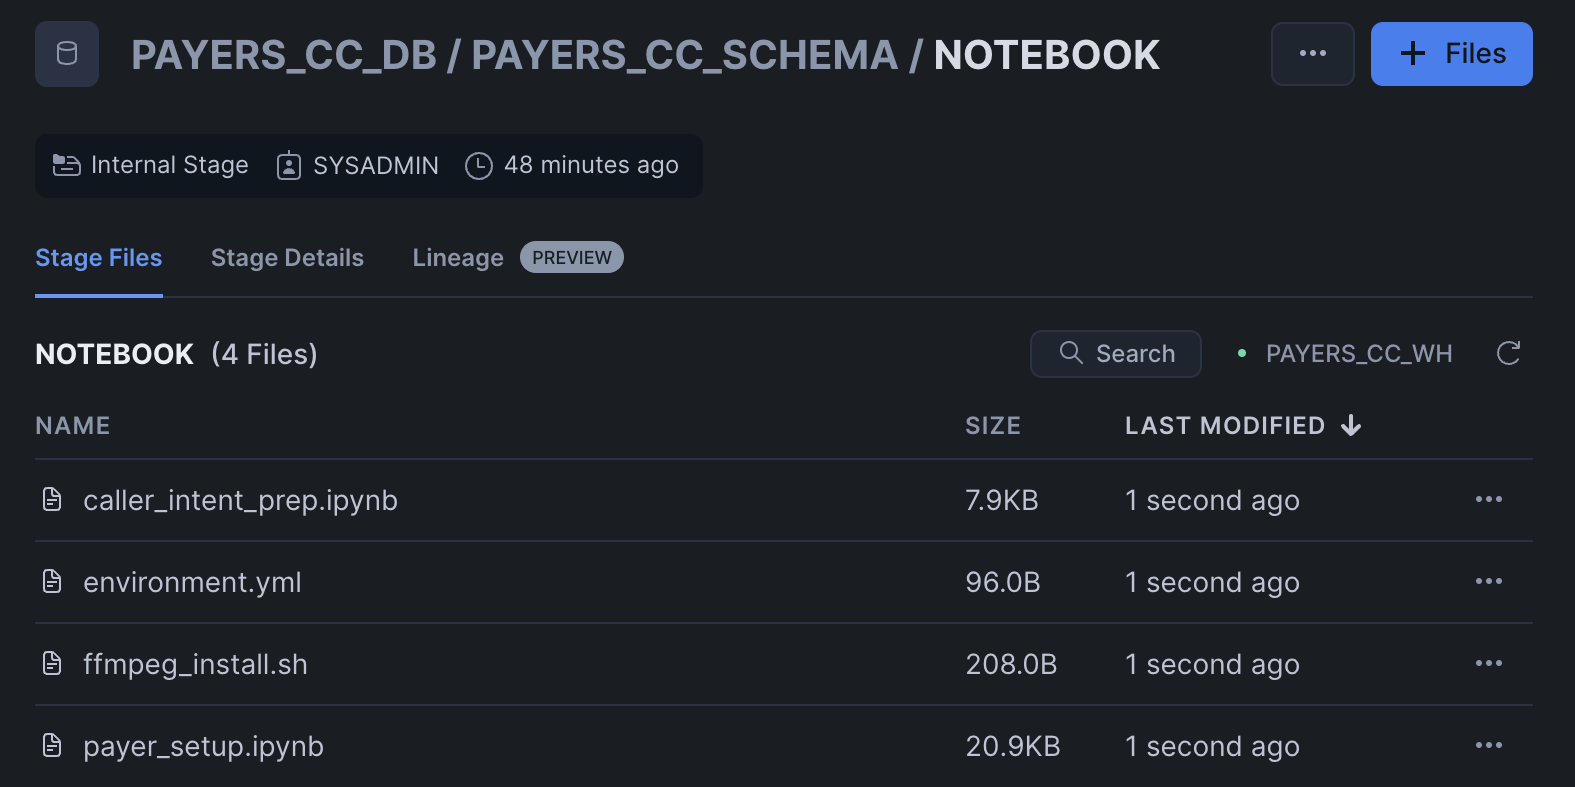
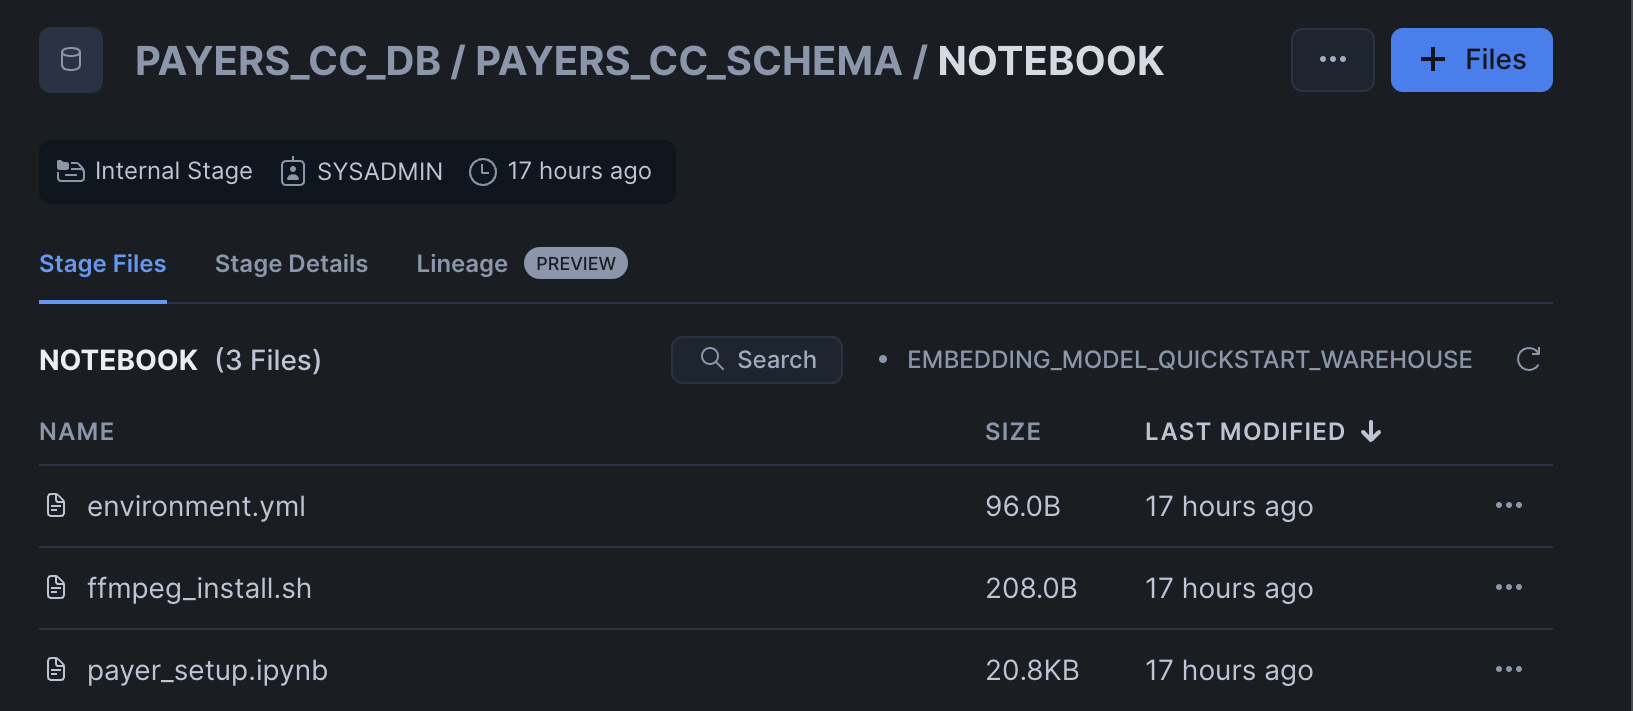
clean up

diff --git a/site/sfguides/src/ai_agent_health_payers_cc/ai_agent_health_payers_cc.md b/site/sfguides/src/ai_agent_health_payers_cc/ai_agent_health_payers_cc.md
@@ -15,7 +15,7 @@ tags: Getting Started, Snowpark Python, Streamlit, Data-Science-&-Ai
 
 Contact Center is a critical business function for a Payer/Health Plan. There is heightened focus particularly with the growing market demand for customer centric experiences in Healthcare. Improving the operational efficiency of contact centers and reducing agent burnout are also key priorities for all enterprises.
 
-#### Scenario
+#### Business Scenario
 
 You are the Business Leader for a Payer/Health Plan's Contact Center operations. There are 4 primary caller personas reaching your Contact Center - Member, Provider, Employer and Broker.
 
@@ -49,10 +49,9 @@ Based on a detailed study, you have identified key challenges faced by Contact C
 
 ### What You Will Build
 
-- A Snowflake Notebook on Container Runtime to process unstructured data (audio files and PDFs)
+- A Snowflake Notebook on Container Runtime to process unstructured data (audio files and PDFs) and build a Caller Intent ML Classification Model and execute predictions:
      - Audio-to-text transcription using `whisper`
      - PDF processing and text chunking using Snowpark
-- A Snowflake Notebook on Warehouse to build a Caller Intent ML Classification Model and execute predictions
 - A chatbot application using Streamlit
 
 **Architecture Diagram:**
@@ -79,7 +78,7 @@ There are 3 types of data we're dealing with in this solution:
 #### Setup
 To get started using Snowflake Notebooks, first login to Snowsight. In the top-left corner, click "+ Create" to create a new Worksheet, and choose "SQL Worksheet".
 
-Paste and run the following [setup.sql](https://github.com/Snowflake-Labs/sfguide-ai-agent-hcls-payers-cc-cortex-notebooks-mlclassification/blob/main/scripts/setup.sql) in the SQL worksheet to create Snowflake objects (warehouse, database, schema).
+Paste and run the following [setup.sql](https://github.com/Snowflake-Labs/sfguide-ai-agent-hcls-payers-cc-cortex-notebooks-mlclassification/blob/main/scripts/setup.sql) in the SQL worksheet to create Snowflake objects.
 
 ```sql
 USE ROLE SYSADMIN;
@@ -155,8 +154,10 @@ Click '+ Files' in the top right of the stage. Upload all files that you downloa
 <img src="assets/upload_caller_intent.png"/>
 <img src="assets/upload_data_product.png"/>
 <img src="assets/upload_faqs.png"/>
+
 - **Notebook Files:** Upload notebook files (including environment.yml) to the `NOTEBOOK` stage from [notebook](https://github.com/Snowflake-Labs/sfguide-ai-agent-hcls-payers-cc-cortex-notebooks-mlclassification/tree/main/notebooks).
 <img src="assets/upload_notebook_files.png"/>
+
 - **Streamlit Files:** Upload all Streamlit and chatbot-related files to the `CHATBOT_APP` stage from [streamlit](). Remember to upload [the streamlit-specific environment.yml](https://github.com/Snowflake-Labs/sfguide-building-ai-assistant-using-snowflake-co[…]snowflake-notebooks/blob/main/scripts/streamlit/environment.yml) file as well.
 <img src="assets/upload_streamlit_files.png"/>
 
@@ -272,27 +273,18 @@ QUERY_WAREHOUSE = 'PAYERS_CC_WH'
 COMMENT = '{"origin":"sf_sit-is", "name":"payer_call_center_assistant_v2", "version":{"major":1, "minor":0}, "attributes":{"is_quickstart":1, "source":"streamlit"}}';
 ```
 
-## Access Main Setup Notebook
+## Access Setup Notebook
 **Duration: 20 minutes**
 
 The notebook has already been created in your Snowflake account! All packages and Python setup has already been completed.
 
 To access it, navigate to Snowsight, select the `SYSADMIN` role, and click the Project, click the Notebooks tab. Open `PAYERS_CC_MAIN_SETUP` and run each of the cells.
 
-<img src='assets/notebook1.png'>
+<img src='assets/notebook.png'>
 
 Within this notebook, you'll prepare all the unstructured data needed before you can run the Streamlit App. Once this data is processed, the chatbot will have a rich knowledge base to start from that's all stored within the Cortex Search service, a fully managed indexing and retrieval service. Cortex Search will then be used for RAG.
 
-## Access Caller Intent Prediction Notebook
-**Duration: 10 minutes**
-
-The notebook has already been created in your Snowflake account! All packages and Python setup has already been completed.
-
-To access it, navigate to Snowsight, select the `SYSADMIN` role, and click the Project, click the Notebooks tab. Open `PAYERS_CALLER_INTENT_PREDICTION`and run each of the cells.
-
-<img src='assets/notebook2.png'>
-
-Within this notebook, you'll predict the intent of a caller using historical data. This will allow Contact Center Agents to be better prepared when faced with an incoming call.
+You will also predict the intent of a caller using historical data. This will allow Contact Center Agents to be better prepared when faced with an incoming call.
 
 ## Run Streamlit Application
 **Duration: 20 minutes**
